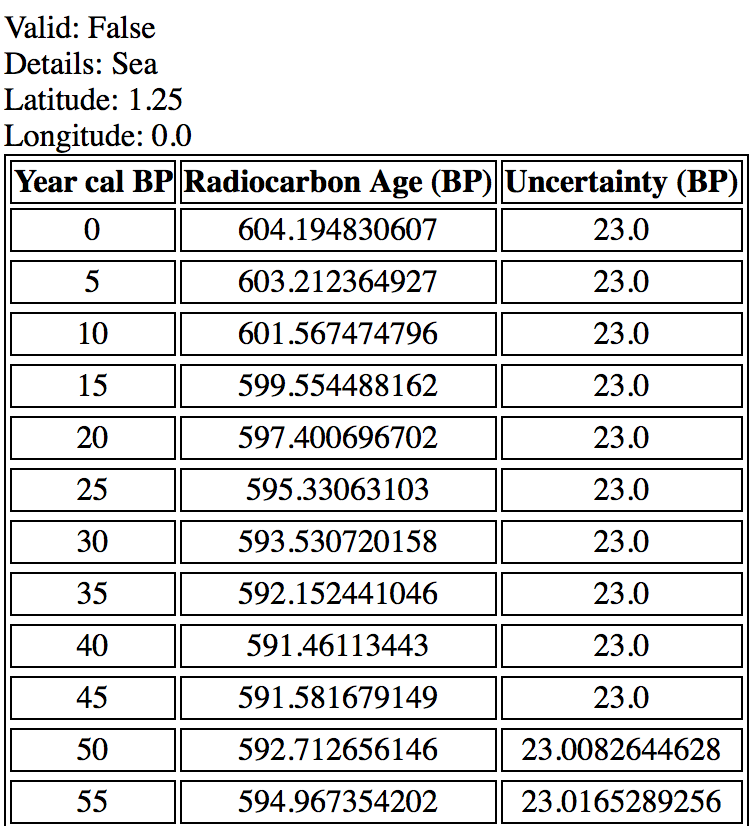
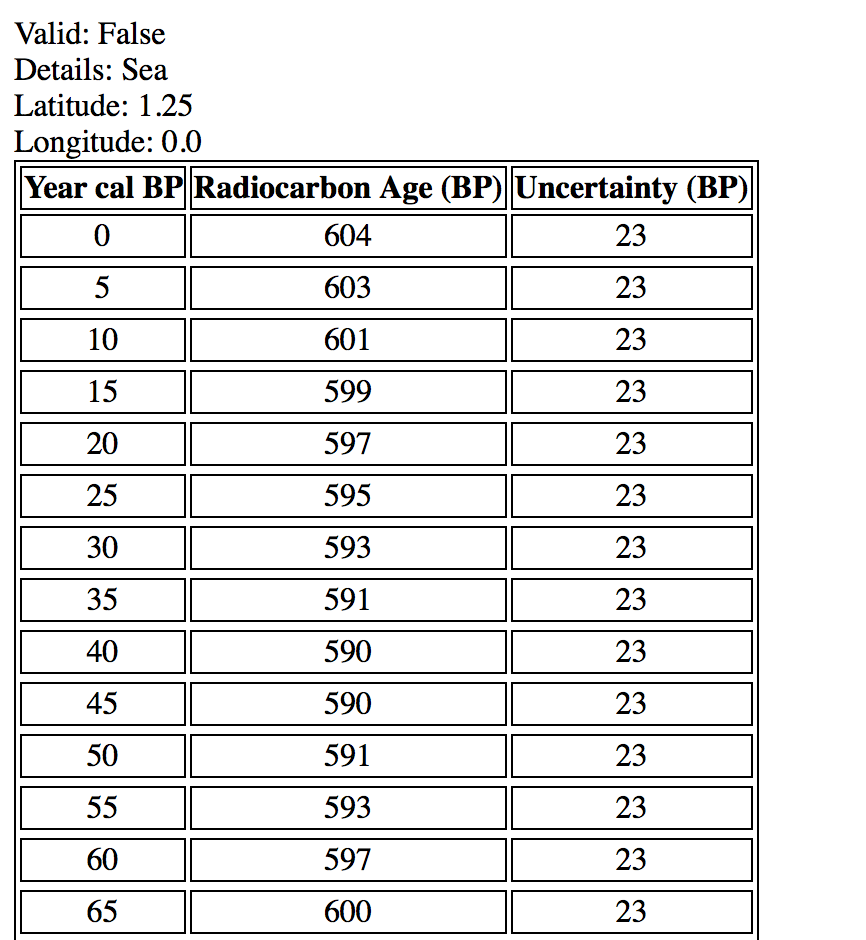
API updated
Users can query the API using boxes to enter the coordinates.

Changed region(s): [[0.0, 0.0, 1.0, 1.0]]

diff --git a/Templates/map.html b/Templates/map.html
@@ -1,0 +1,27 @@
+<!DOCTYPE html>
+<html lang="en">
+<head>
+    <meta charset="UTF-8">
+    <title>Title</title>
+</head>
+<body>
+<div><th> Please enter the geographical coordinates of your area of interest. </th></div>
+    <form method="post" action="/coord">
+        <label>Longitude:</label>
+        <input type="text" id="lo">
+        <label>Latitude:</label>
+        <input type="text" id="la">
+
+        <a href="" id="qdlc" ><input type="button" value="OK" onclick="link()"></a>
+	<script>
+		function link() {
+			var x = document.getElementById('lo').value;
+			var y = document.getElementById('la').value;
+			document.getElementById('qdlc').href = "http://127.0.0.1:5000/coordinates?lon="+x+"&lat="+y;
+
+		}
+	</script>
+<div><th> The analysis can take a while. </th></div>
+
+</body>
+</html>

diff --git a/api.py b/api.py
@@ -1,8 +1,12 @@
 import numpy as np
 import pandas as pd
 import csv
+import scipy
+import xlwt
 from netCDF4 import Dataset
 from flask import Flask, url_for, request, json, Response, jsonify, render_template
+import sys
+import openpyxl
 
 
 app = Flask(__name__)
@@ -79,13 +83,19 @@ def smooth_timeseries(year, cra, year_end, cra_end, error, error_end, middle):
     error_end_r = np.asarray(list(reversed(error_end)))
 
     begin_r = pd.DataFrame({'year': year_r, 'cra': cra_r, 'error':error_r}) 
-    end_r = pd.DataFrame({'year': year_end_r, 'cra': cra_end_r, 'error':error_end_r}) 
-    smooth = pd.concat([begin_r, middle, end_r]) 
+    end_r = pd.DataFrame({'year': year_end_r, 'cra': cra_end_r, 'error':error_end_r})
+
+    if sys.version_info < (3, 0, 0):
+        smooth = pd.concat([begin_r, middle, end_r])
+    else:
+        smooth = pd.concat([begin_r, middle, end_r],sort=False)
 
     smooth['cra_trend'] = smooth['cra'].rolling(win_type = 'triang', window=21, center=True).mean()
     smooth['error_trend'] = smooth['error'].rolling(win_type = 'triang', window=21, center=True).mean()
 
     smooth = smooth[pd.notnull(smooth['cra_trend'])]
+    smooth = smooth.round({'cra_trend': 0, 'error_trend': 0})
+    smooth = smooth.astype({'cra_trend':int,'error_trend':int})
 
     return smooth
 
@@ -94,14 +104,14 @@ def smooth_timeseries(year, cra, year_end, cra_end, error, error_end, middle):
 # The local curve is stored as json.
 
 def create_http_response(df, lat, lon):
-    
-    out = df[['MRA_avg', 'year', 'Delta14C', 'Delta_sigma','Fm', 'cra_trend', 'error_trend']].to_json() 
+
+    out = df[['MRA_avg', 'year', 'Delta14C', 'Delta_sigma', 'Fm', 'cra_trend', 'error_trend']].to_json()
     data = json.loads(out)
 
     latitude = str(lat)
     longitude = str(lon)
 
-    keys = data['MRA_avg'].keys() 
+    keys = list(data['MRA_avg'])
     keys.sort(key=float)
     return Response(render_template('test.html', result={'keys':keys, 'data':data, 'Details':{'Place': 'Sea'}, 'Valid': 'True',\
         'Latitude': latitude, 'Longitude': longitude}))
@@ -111,20 +121,26 @@ def create_http_response(df, lat, lon):
 # The local curve is stored as json.
 
 def invalid_location(df, lat, lon):
-    
+
     out = df[['MRA_avg', 'year', 'Delta14C', 'Delta_sigma', 'Fm', 'cra_trend', 'error_trend']].to_json()
     data = json.loads(out)
 
     latitude = str(lat)
     longitude = str(lon)
 
-    keys = data['MRA_avg'].keys() 
+    keys = list(data['MRA_avg'])
     keys.sort(key=float)
     return Response(render_template('test.html', result={'keys':keys, 'data':data, 'Details':{'Place': 'Sea'}, 'Valid': 'False', \
         'Latitude': latitude, 'Longitude': longitude}))
             
+#Initial page of the API
+
+@app.route('/')
+def beg ():
+    return render_template('map.html')
+
 # Returning error message (e.g., incorrect URLs):
-    
+
 @app.errorhandler(404)
 def not_found(error=None):
     message = {
@@ -162,51 +178,63 @@ def function1():
             return resp
         
         else:
-			df = pd.DataFrame(interp)
+            df = pd.DataFrame(interp)
         for row in df.iterrows():
-                df['Delta14C'] = (df1['Delta14C_t']+1000)/(np.exp(df['MRA_avg']/8033))-1000
+                df['Delta14C'] = (df1['Delta14C_t'] + 1000) / (np.exp(df['MRA_avg'] / 8033)) - 1000
                 df['Delta_sigma'] = df1['sigma']
-                df['Fm'] = (df['Delta14C']/1000+1)*np.exp(df1['ad']/8033-0.24274866)
-                df['cra'] = -(8033*np.log(df['Fm']))
+                j = (df['Delta14C'] / 1000 + 1)
+                df['Fm'] = (df['Delta14C'] / 1000 + 1)*np.exp(df1['ad'] / 8267 - 0.23587759)
+                df['cra2'] = -(8033 * np.log(j))
+                df['cra'] = df['cra2'] - 8033 * (df1['ad'] / 8267 - 0.23587759)
                 df['error'] = df2['error']
                 df_smooth = smooth_timeseries(df['year'][0:10], df['cra'][0:10], df['year'][4791:4801].reset_index(drop=True), \
                     df['cra'][4791:4801].reset_index(drop=True), df['error'][0:10], df['error'][4791:4801].reset_index(drop=True), df)
-		#df_smooth.to_csv('LOCal13_' + 'lat=' + str(lat) + 'lon=' + str(lon) + '.csv', index=False, header=True)
-		return create_http_response(df_smooth, lat, lon)
-            
+        df_smooth.drop(['cra2'], axis=1, inplace=True)
+        df_smooth.to_csv('LOCal13_' + 'lat=' + str(lat) + 'lon=' + str(lon) + '.csv', index=False, header=True)
+        writer = pd.ExcelWriter('LOCal13_' + 'lat=' + str(lat) + 'lon=' + str(lon) + '.xls')
+        df_smooth.to_excel(writer, 'Sheet1')
+        writer.save()
+        return create_http_response(df_smooth, lat, lon)
+
     elif lon not in new_lons or lat not in lats:
-        
+
         lon = find_nearest(new_lons, lon)
         lat = find_nearest(lats, lat)
-	lat_idx = find_idx(lats, lat)
+        lat_idx = find_idx(lats, lat)
         lon_idx = find_idx(new_lons, lon)
-        MRA = MRAavgs [:, lat_idx, lon_idx] 
+        MRA = MRAavgs [:, lat_idx, lon_idx]
 
         interp = interpolation(time, MRA)
 
         if np.ma.is_masked(MRA):
             message = {
-            'Valid': False, 'Details': {'Place': 'Invalid'} 
+            'Valid': False, 'Details': {'Place': 'Invalid'}
             }
             resp = jsonify(message)
             return resp
 
         else:
-			df = pd.DataFrame(interp)
+            df = pd.DataFrame(interp)
         for row in df.iterrows():
-                df['Delta14C'] = (df1['Delta14C_t']+1000)/(np.exp(df['MRA_avg']/8033))-1000
+                df['Delta14C'] = (df1['Delta14C_t'] + 1000) / (np.exp(df['MRA_avg'] / 8033)) - 1000
                 df['Delta_sigma'] = df1['sigma']
-                df['Fm'] = (df['Delta14C']/1000+1)*np.exp(df1['ad']/8033-0.24274866)
-                df['cra'] = -8033*np.log(df['Fm'])
+                j = (df['Delta14C'] / 1000 + 1)
+                df['Fm'] = (df['Delta14C'] / 1000 + 1) * np.exp(df1['ad'] / 8267 - 0.23587759)
+                df['cra2'] = -(8033 * np.log(j))
+                df['cra'] = df['cra2'] - 8033 * (df1['ad'] / 8267 - 0.23587759)
                 df['error'] = df2['error']
                 df_smooth = smooth_timeseries(df['year'][0:10], df['cra'][0:10], df['year'][4791:4801].reset_index(drop=True), \
                     df['cra'][4791:4801].reset_index(drop=True), df['error'][0:10], df['error'][4791:4801].reset_index(drop=True), df)
-        #df_smooth.to_csv('LOCal13_' + 'lat=' + str(lat) + 'lon=' + str(lon) + '.csv', index=False, header=True)
-	return invalid_location(df_smooth, lat, lon)
+        df_smooth.drop(['cra2'], axis=1, inplace=True)
+        df_smooth.to_csv('LOCal13_' + 'lat=' + str(lat) + 'lon=' + str(lon) + '.csv', index=False, header=True)
+        writer = pd.ExcelWriter('LOCal13_' + 'lat=' + str(lat) + 'lon=' + str(lon) + '.xls')
+        df_smooth.to_excel(writer, 'Sheet1')
+        writer.save()
+    return invalid_location(df_smooth, lat, lon)
 
     
 if __name__ == '__main__':
-    app.run()
+    app.run(use_reloader=True)
 
 
 

diff --git a/README.md b/README.md
@@ -20,7 +20,9 @@ A complete description can be found in Alves et al. (2018).
 All the necessary data was uploaded as supplementary material for Alves et al. (2018). Data and code should be in the same folder. The api.py code creates local curves. Use api.py to run the REST API. 
 
 ## GET /coordinates?lat={latitude}&lon={longitude}
-You can query the API using the route specified in api.py and choosing the geographic coordinates of your study region.
+You can query the API using the route specified in api.py and choosing the geographic coordinates of your study region. Alternatively, you can use the boxes to enter the coordinate values.
+
+![Box](https://github.com/eduqq/local_curves/Images/box.png)
 
 ## Examples:
 
